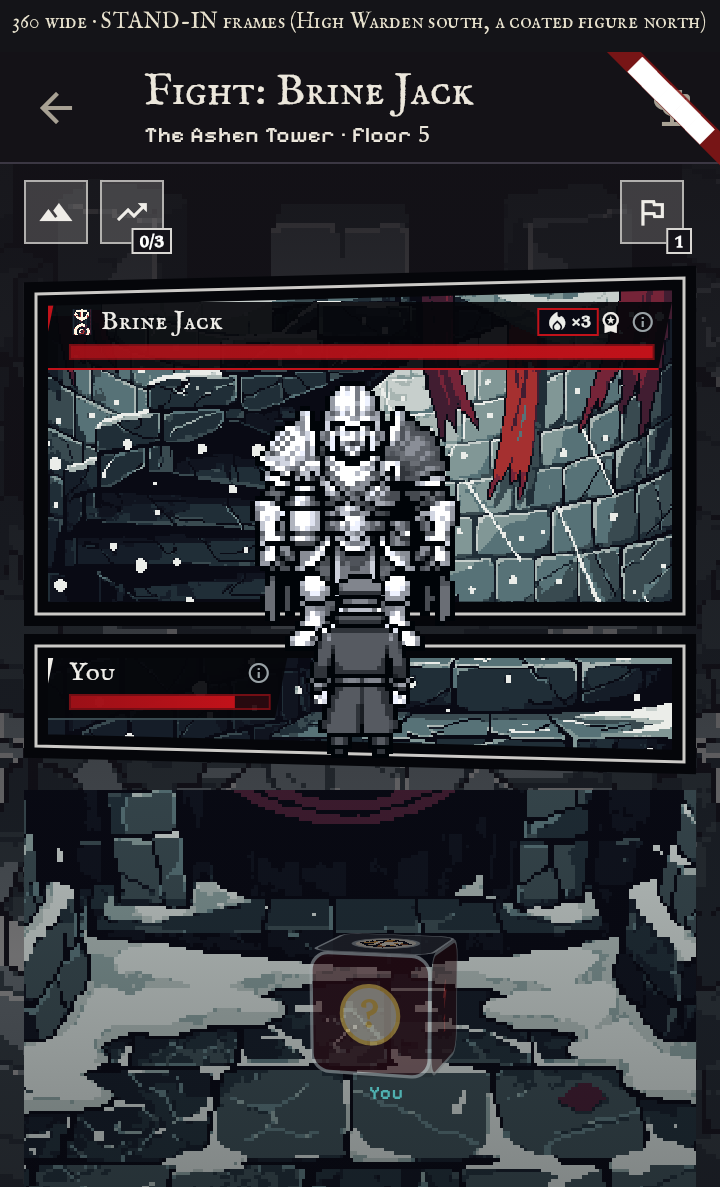
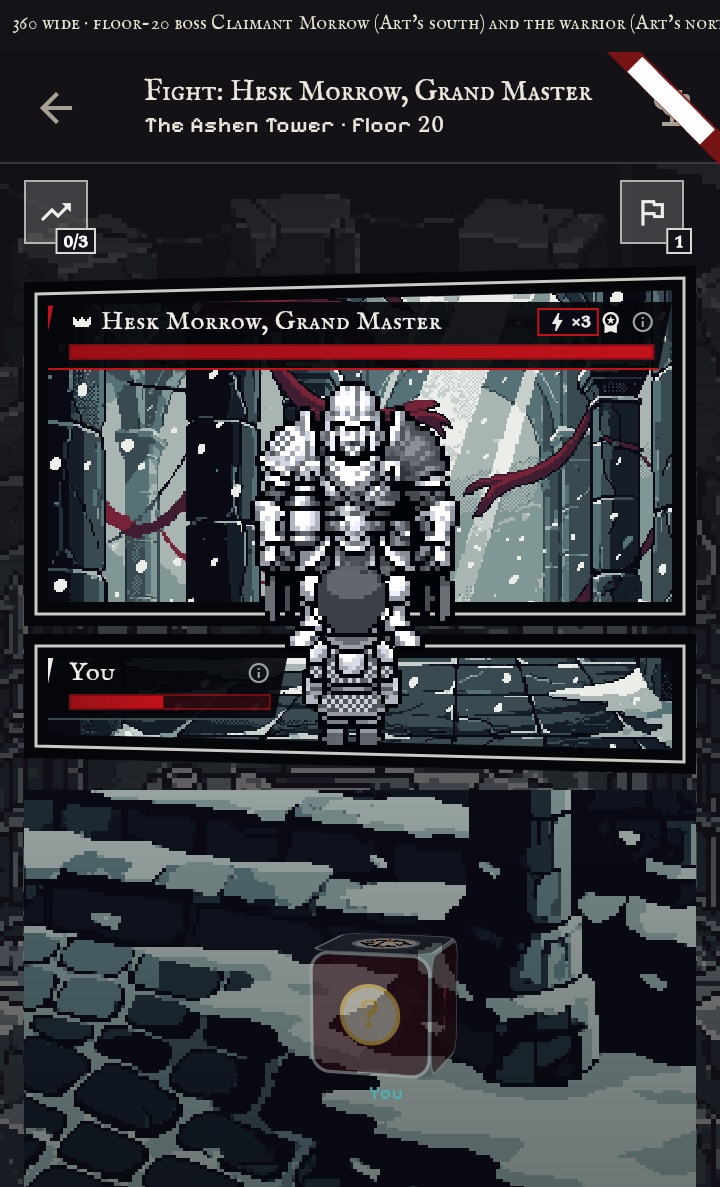
Picture: the boss facing the player with Art's south and north frames
Claude-Session: https://claude.ai/code/session_019ETFw2Y7wpHSXWG5mmACty

diff --git a/test/ux_boss_facing_shots_test.dart b/test/ux_boss_facing_shots_test.dart
@@ -1,5 +1,6 @@
-// PICTURES (UX_SHOTS=<folder>): a warden fight (Brine Jack, floor 5) with the
-// boss facing the viewer and the hero seen from behind, in stand-in frames.
+// PICTURES (UX_SHOTS=<folder>, ART_HANDOFF=<Art's handoff folder>): the floor-20
+// boss (Claimant Morrow) facing the viewer and the warrior seen from behind,
+// Art's own south and north frames.
 import 'dart:convert';
 import 'dart:io';
 import 'dart:ui' as ui;
@@ -87,21 +88,19 @@ void main() {
     towerBossFacingMock.value = null;
   });
 
-  // PICTURE ONLY: a warden fight (Brine Jack, floor 5) with the boss facing the
-  // viewer and the hero seen from behind, in stand-in frames (the High
-  // Warden's south and a coated figure's north) until Art's own arrive.
   for (final w in [412.0, 360.0]) {
-    testWidgets('boss facing the player at ${w.toInt()}', skip: shots == null,
+    testWidgets('boss facing the player at ${w.toInt()}',
+        skip: shots == null || Platform.environment['ART_HANDOFF'] == null,
         (tester) async {
       final boss = await tester.runAsync(() async => decodeImageFromList(File(
               'art/pixellab-enemies2/raw/inquisition_high_warden/Idle/rotations/south.png')
           .readAsBytesSync()));
       final hero = await tester.runAsync(() async => decodeImageFromList(
-          File('art/pixellab-pilots/round2/raw/renn_a/Idle/rotations/north.png')
+          File('${Platform.environment['ART_HANDOFF']}/warrior_north.png')
               .readAsBytesSync()));
       towerBossFacingMock.value = (boss: boss!, hero: hero!);
       final key = GlobalKey();
-      await _bootFight(tester, key, floor: 5, width: w);
+      await _bootFight(tester, key, floor: 20, width: w);
       expect(tester.takeException(), isNull);
       Directory(shots!).createSync(recursive: true);
       await tester.runAsync(() async {

diff --git a/docs/ux-shots/boss-south/README.md b/docs/ux-shots/boss-south/README.md
@@ -1,18 +1,20 @@
 # Boss facing the player (picture only)
 
-A warden fight (Brine Jack, floor 5) at 412 and 360 wide, laid out so it reads as
-one scene from top to bottom: the boss FACES THE VIEWER (south sprite), standing
-big in its taller panel; "You" is a slim strip under it with the hero seen FROM
-BEHIND (north sprite), his head and shoulders over the seam, looking up at it.
+A floor-20 boss fight (Claimant Morrow) at 412 and 360 wide, laid out so it reads as
+one scene from top to bottom: the boss FACES THE VIEWER (south frame), standing big
+in its taller panel; "You" is a slim strip under it with the hero seen FROM BEHIND
+(north frame), his head and shoulders over the seam, looking up at it.
 
-**Stand-in frames, labelled in the pictures**: the boss is the Inquisition High
-Warden's south frame and the hero is a coated figure's north frame (both from
-`art/`), tinted grey. Brine Jack's own south frames and the warrior's north frames
-come from Art. The real ones drop in at the same place.
+**Art's own frames**, from the hand-off (`art/pixellab-boss-rotations/handoff/` on
+`claude/art-npc-export`): `claimant_morrow_south.png` (60 px) and `warrior_north.png`
+(48 px), tinted grey like the game's figures. Brine Jack, the floor-5 warden, has no
+south frame yet, so the floor-20 boss stands in (Art's note: `docs/art/boss-rotations.md`).
+The frames are read from a folder given to the picture test (`ART_HANDOFF`), not
+copied into the repo, since Art's branch is not merged.
 
 Names, HP bars, the Heat chip and the info buttons stay readable and in place: the
-hero's plate (name, HP bar) takes the left half of the strip and the hero stands
-in the right half, so he never covers the bar. At 360 it is the same.
+hero's plate (name, HP bar) takes the left half of the strip and the hero stands in
+the right half, so he never covers the bar. At 360 it is the same.
 
 Built behind a picture-only switch (`towerBossFacingMock` in
 `fight_tower_panels.dart`, null in the game); no version until the user approves.
